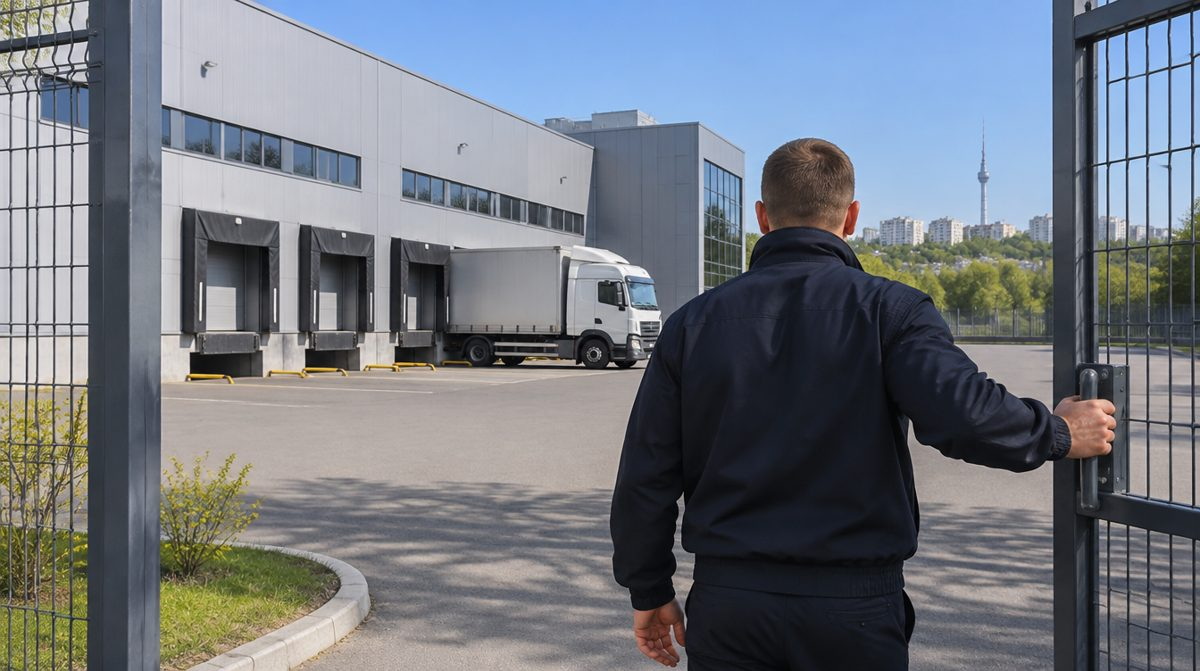
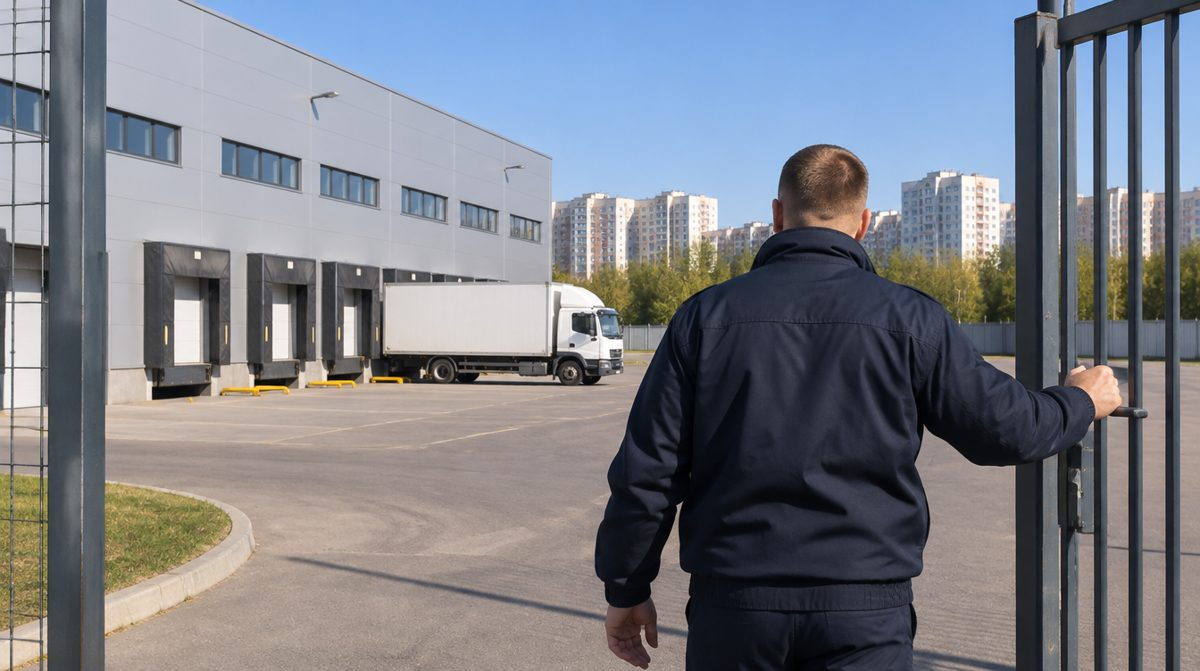
Штурмова варта: 3 фото – по одній київській пам'ятці на вкладку
Claude-Session: https://claude.ai/code/session_01SrxZjC5zLnvFDt1wpwCUvh

diff --git a/clients/shturmova-varta/design/concept-ai/SOURCES.md b/clients/shturmova-varta/design/concept-ai/SOURCES.md
@@ -19,12 +19,12 @@
 | Файл | Що | Примітки |
 |---|---|---|
 | 01-office.jpg | охоронець на рецепції БЦ | – |
-| 02-warehouse.jpg | охоронець біля воріт складу | перегенеровано 18.11 з київським контекстом (+0,25 кредиту) |
+| 02-warehouse.jpg | охоронець біля воріт складу | перегенеровано 18.11 вдруге (+0,25): без телевежі, фон – київські багатоповерхівки |
 | 03-construction.jpg | в'їзд на будмайданчик, жилет | – |
 | 04-event.jpg | перевірка браслетів на вході | перегенеровано 18.11 (+0,25 кредиту): усі зі спини, без розмиття |
 | 05-kpp.jpg | КПП бізнес-парку | перегенеровано 18.11 з київським контекстом (+0,25 кредиту) |
 | 06-house.jpg | охоронець біля воріт будинку | перегенеровано 18.11 (+0,25 кредиту): без кашкета |
-| 07-personal.jpg | особистий охоронець у місті | перегенеровано 18.11 з київським контекстом (+0,25 кредиту) |
-| 08-escort.jpg | двері авто для клієнта | перегенеровано 18.11 з київським контекстом (+0,25 кредиту) |
+| 07-personal.jpg | особистий охоронець у місті | перегенеровано 18.11 вдруге (+0,25): без пам'яток, каштани й гранітний фасад |
+| 08-escort.jpg | двері авто для клієнта | перегенеровано 18.11 вдруге (+0,25): одна пам'ятка – «Батьківщина-мати» далеко |
 | 09-wedding.jpg | вхід на весільний майданчик | – |
 | 10-house-build.jpg | ділянка з будинком, що будується | – |
